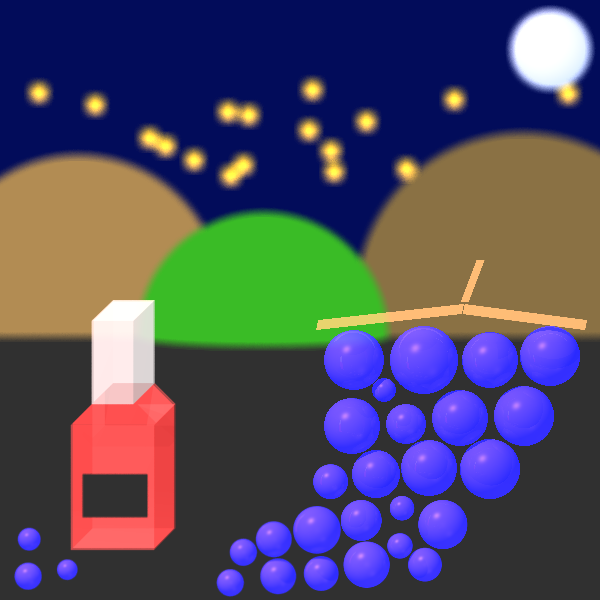
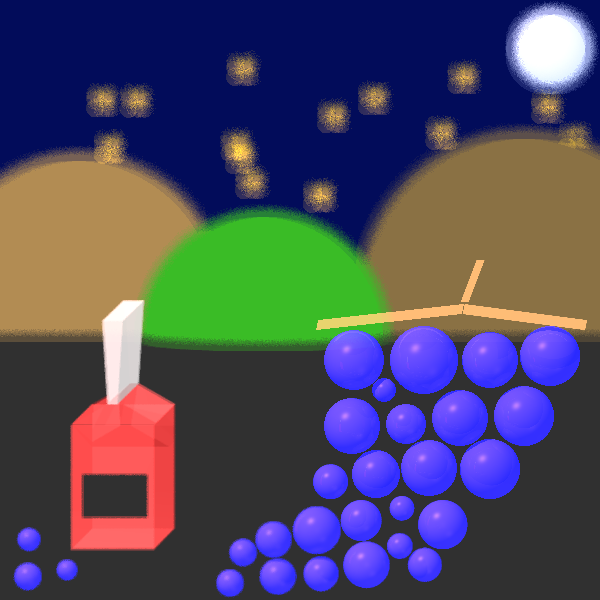
mp2 battleNeck

diff --git a/tests/renderer/Final.java b/tests/renderer/Final.java
@@ -187,49 +187,49 @@ public class Final {
                         .setEmission(new Color(85,0,0))//wine battle-left
                         .setMaterial(new Material().setKd(0.2).setKs(0.2).setShininess(30).setKt(0.8)),
 
-                new Polygon(new Point3D(-10, -5, -91), new Point3D(-9, -4, -91),
+                new Polygon(new Point3D(-9.25, -5, -91), new Point3D(-8.25, -4, -91),
                         new Point3D(-10, -5, -90), new Point3D(-11, -6, -90))
                         .setEmission(new Color(85,0,0))//wine battle-left triangle
                         .setMaterial(new Material().setKd(0.2).setKs(0.2).setShininess(30).setKt(0.8)),
 
-                new Polygon(new Point3D(-7, -6, -90), new Point3D(-8, -5, -90),
-                        new Point3D(-7, -4, -91), new Point3D(-6, -5, -91))
+                new Polygon(new Point3D(-7, -6, -90), new Point3D(-8.75, -5, -90),
+                        new Point3D(-7.75, -4, -91), new Point3D(-6, -5, -91))
                         .setEmission(new Color(85,0,0))//wine battle-right triangle
                         .setMaterial(new Material().setKd(0.2).setKs(0.2).setShininess(30).setKt(0.8)),
 
                 new Polygon(new Point3D(-10, -5, -91), new Point3D(-6, -5, -91),
-                        new Point3D(-7, -4, -91), new Point3D(-9, -4, -91))
+                        new Point3D(-7.75, -4, -91), new Point3D(-8.25, -4, -91))
                         .setEmission(new Color(85,0,0))//wine battle-back triangle
                        .setMaterial(new Material().setKd(0.2).setKs(0.2).setShininess(30).setKt(0.8)),
 
-                new Polygon(new Point3D(-11, -6, -90), new Point3D(-10, -5, -90),
-                        new Point3D(-8, -5, -90), new Point3D(-7, -6, -90))
-                        .setEmission(new Color(85,0,0))//wine battle-front triangle
-                  .setMaterial(new Material().setKd(0.2).setKs(0.2).setShininess(30).setKt(0.8)),
+                new Polygon(new Point3D(-11, -6, -90), new Point3D(-9.25, -5, -90),
+                        new Point3D(-8.75, -5, -90), new Point3D(-7, -6, -90))
+                        .setEmission(new Color(0,0,100))//wine battle-front triangle
+                  .setMaterial(new Material().setKd(0.2).setKs(0.2).setShininess(30).setKt(0.2)),
 
 
-                new Polygon(new Point3D(-10, -5, -90), new Point3D(-8, -5, -90),
-                        new Point3D(-8, -1, -90), new Point3D(-10, -1, -90))
+                new Polygon(new Point3D(-9.25, -5, -90), new Point3D(-8.75, -5, -90),
+                        new Point3D(-8.5, -1, -90), new Point3D(-9.5, -1, -90))
                         .setEmission(new Color(java.awt.Color.gray))//wine battle-front Bottleneck
                         .setMaterial(new Material().setKd(0.2).setKs(0.2).setShininess(80).setKt(0.3)),
 
-                new Polygon(new Point3D(-9, -4, -91), new Point3D(-7, -4, -91),
-                        new Point3D(-7, 0, -91), new Point3D(-9, 0, -91))
+                new Polygon(new Point3D(-8.25, -4, -91), new Point3D(-7.75, -4, -91),
+                        new Point3D(-7.5, 0, -91), new Point3D(-8.5, 0, -91))
                         .setEmission(new Color(java.awt.Color.gray))//wine battle-back Bottleneck
                         .setMaterial(new Material().setKd(0.2).setKs(0.2).setShininess(80).setKt(0.3)),
 
-                new Polygon(new Point3D(-10, -5, -90), new Point3D(-9, -4, -91),
-                        new Point3D(-9, 0, -91), new Point3D(-10, -1, -90))
+                new Polygon(new Point3D(-9.25, -5, -90), new Point3D(-8.25, -4, -91),
+                        new Point3D(-8.5, 0, -91), new Point3D(-9.5, -1, -90))
                         .setEmission(new Color(java.awt.Color.gray))//wine battle-left Bottleneck
                         .setMaterial(new Material().setKd(0.2).setKs(0.2).setShininess(80).setKt(0.3)),
 
-                new Polygon(new Point3D(-7, -4, -91), new Point3D(-8, -5, -90),
-                        new Point3D(-8, -1, -90), new Point3D(-7, 0, -91))
+                new Polygon(new Point3D(-7.75, -4, -91), new Point3D(-8.75, -5, -90),
+                        new Point3D(-8.5, -1, -90), new Point3D(-7.5, 0, -91))
                         .setEmission(new Color(java.awt.Color.gray))//wine battle-right Bottleneck
                         .setMaterial(new Material().setKd(0.2).setKs(0.2).setShininess(80).setKt(0.3)),
 
-                new Polygon(new Point3D(-9, 0, -91), new Point3D(-7, 0, -91),
-                        new Point3D(-8, -1, -90), new Point3D(-10, -1, -90))
+                new Polygon(new Point3D(-8.5, 0, -91), new Point3D(-7.5, 0, -91),
+                        new Point3D(-8.5, -1, -90), new Point3D(-9.5, -1, -90))
                         .setEmission(new Color(java.awt.Color.gray))//wine battle-up Bottleneck
                         .setMaterial(new Material().setKd(0.2).setKs(0.2).setShininess(80).setKt(0.3)),
 
@@ -258,6 +258,7 @@ public class Final {
         scene.lights.add(new SpotLight(new Color(700, 400, 400), new Point3D(8, -9, -10), new Vector(0, -1, 0)));
         //scene.lights.add(new SpotLight(new Color(java.awt.Color.white), new Point3D(5, 0, 0), new Vector(0, -1, -0.25)));
 
+
         ImageWriter imageWriter = new ImageWriter("Tova Haaretz", 600, 600);
         Render render = new Render()
                 .setImageWriter(imageWriter)
@@ -265,7 +266,7 @@ public class Final {
                 .setMultithreading(3) //for threading improvement
                 .setDebugPrint()
                 .setRayTracer(new BasicRayTracer(scene.turnOnUsingBVH())); //BVH
-        render.renderImage(81);
+        render.renderImage(9);
         render.writeToImage();
     }
 }
